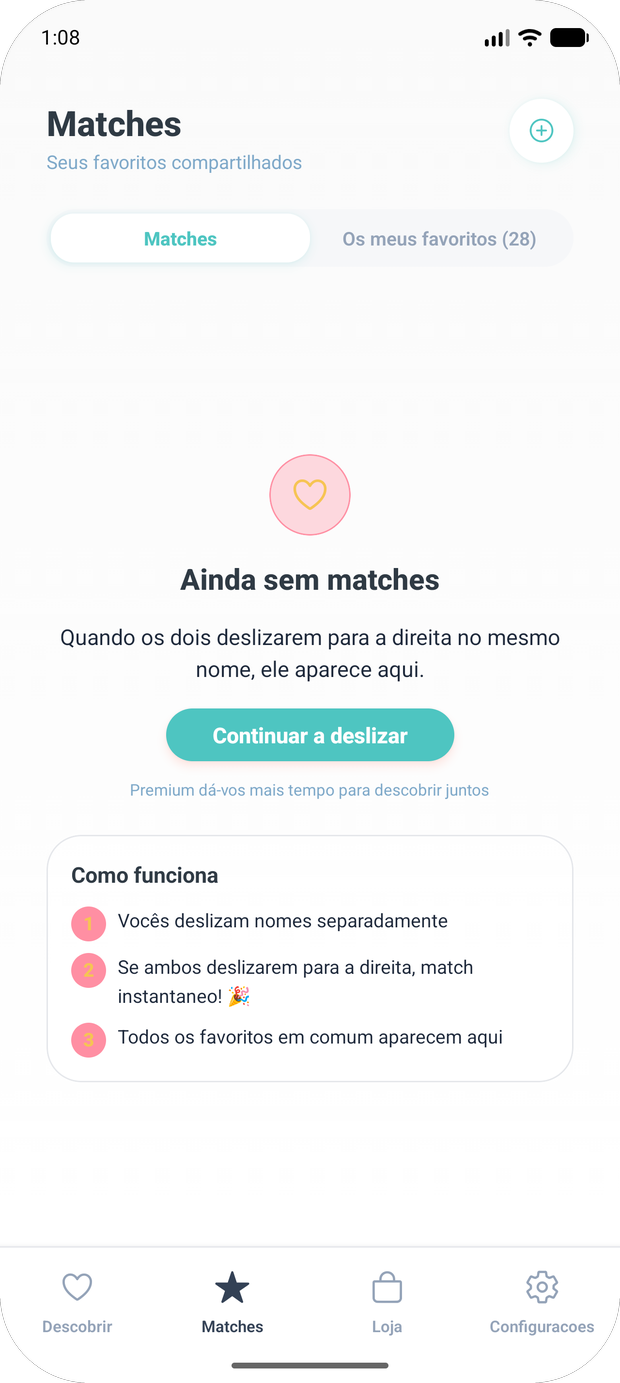
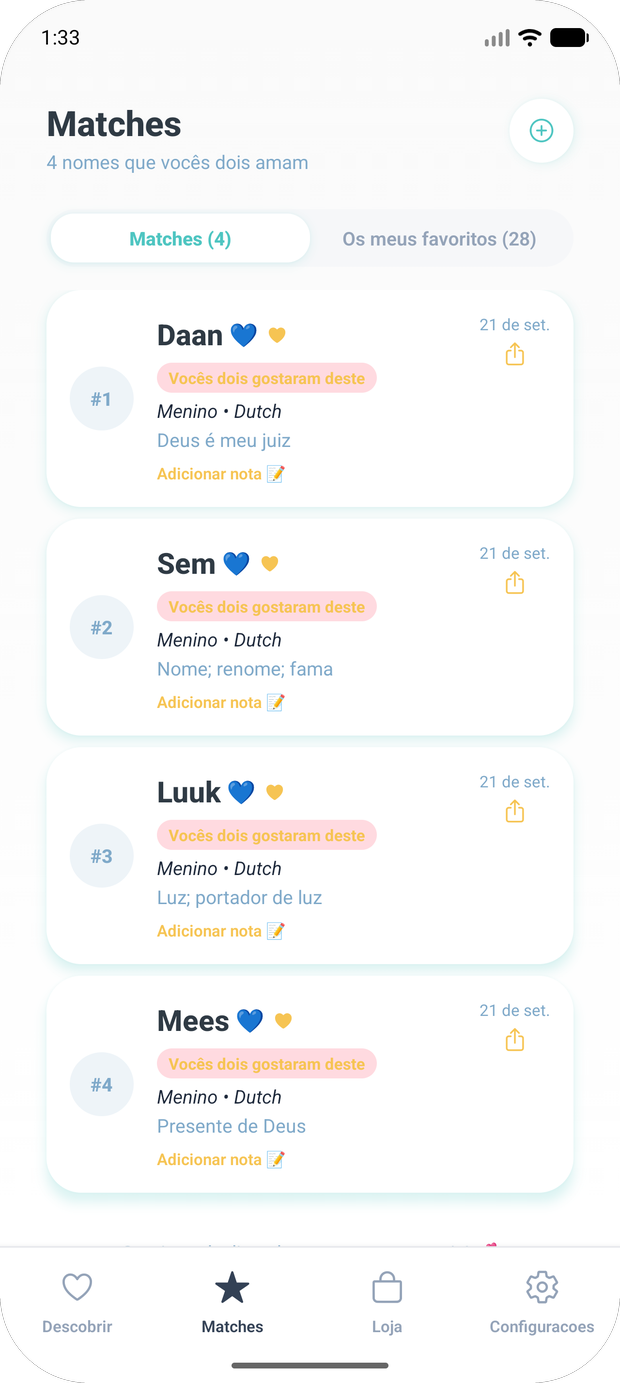
Localised screenshots with real matches, all 11 languages

diff --git a/nl/how-it-works/index.html b/nl/how-it-works/index.html
@@ -111,7 +111,7 @@
 
       <div class="steps">
         <section class="step">
-          <div class="shot"><img src="/assets/screens/nl/deck.png?v=9d10bc29" alt="Swiping names privately" loading="lazy" width="620" height="1383" /></div>
+          <div class="shot"><img src="/assets/screens/nl/deck.png?v=224c25ec" alt="Swiping names privately" loading="lazy" width="620" height="1383" /></div>
           <div><p class="n">01</p><h2>Swipe privé</h2><p>Jullie gaan allebei in je eigen tempo. Wat jij leuk vindt ziet je partner niet, dus er is geen druk om het eens te zijn en geen ongemak bij een nee.</p></div>
         </section>
         <section class="step">
@@ -119,7 +119,7 @@
           <div><p class="n">02</p><h2>Match samen</h2><p>Een naam verschijnt pas als jullie hem allebei leuk vonden. Je ziet nooit wat de ander afwees — dat houdt het gesprek prettig.</p></div>
         </section>
         <section class="step">
-          <div class="shot"><img src="/assets/screens/nl/matches.png?v=7bdf5b67" alt="Your shortlist" loading="lazy" width="620" height="1383" /></div>
+          <div class="shot"><img src="/assets/screens/nl/matches.png?v=9577fedd" alt="Your shortlist" loading="lazy" width="620" height="1383" /></div>
           <div><p class="n">03</p><h2>Bouw je lijstje</h2><p>Elke match wordt bewaard met betekenis en herkomst. Kijk terug, streep door, en beslis wanneer jullie eraan toe zijn.</p></div>
         </section>
       </div>

diff --git a/ar/how-it-works/index.html b/ar/how-it-works/index.html
@@ -111,7 +111,7 @@
 
       <div class="steps">
         <section class="step">
-          <div class="shot"><img src="/assets/screens/ar/deck.png?v=ab4ed9df" alt="Swiping names privately" loading="lazy" width="620" height="1383" /></div>
+          <div class="shot"><img src="/assets/screens/ar/deck.png?v=f390a2b0" alt="Swiping names privately" loading="lazy" width="620" height="1383" /></div>
           <div><p class="n">01</p><h2>Swipe privately</h2><p>Each of you goes at your own pace. Nothing you like is shown to your partner, so there is no pressure to agree and no awkwardness in passing.</p></div>
         </section>
         <section class="step">
@@ -119,7 +119,7 @@
           <div><p class="n">02</p><h2>Match together</h2><p>A name appears only when you have both liked it. You never see what the other rejected, which is what keeps the conversation warm.</p></div>
         </section>
         <section class="step">
-          <div class="shot"><img src="/assets/screens/ar/matches.png?v=d8d52275" alt="Your shortlist" loading="lazy" width="620" height="1383" /></div>
+          <div class="shot"><img src="/assets/screens/ar/matches.png?v=72870396" alt="Your shortlist" loading="lazy" width="620" height="1383" /></div>
           <div><p class="n">03</p><h2>Build your shortlist</h2><p>Every match is saved with its meaning and origin. Revisit it, narrow it down, and decide when you are ready.</p></div>
         </section>
       </div>

diff --git a/de/how-it-works/index.html b/de/how-it-works/index.html
@@ -111,7 +111,7 @@
 
       <div class="steps">
         <section class="step">
-          <div class="shot"><img src="/assets/screens/de/deck.png?v=c4df9872" alt="Swiping names privately" loading="lazy" width="620" height="1383" /></div>
+          <div class="shot"><img src="/assets/screens/de/deck.png?v=9ea445d7" alt="Swiping names privately" loading="lazy" width="620" height="1383" /></div>
           <div><p class="n">01</p><h2>Swipe privately</h2><p>Each of you goes at your own pace. Nothing you like is shown to your partner, so there is no pressure to agree and no awkwardness in passing.</p></div>
         </section>
         <section class="step">
@@ -119,7 +119,7 @@
           <div><p class="n">02</p><h2>Match together</h2><p>A name appears only when you have both liked it. You never see what the other rejected, which is what keeps the conversation warm.</p></div>
         </section>
         <section class="step">
-          <div class="shot"><img src="/assets/screens/de/matches.png?v=dbfcc62f" alt="Your shortlist" loading="lazy" width="620" height="1383" /></div>
+          <div class="shot"><img src="/assets/screens/de/matches.png?v=40c1443f" alt="Your shortlist" loading="lazy" width="620" height="1383" /></div>
           <div><p class="n">03</p><h2>Build your shortlist</h2><p>Every match is saved with its meaning and origin. Revisit it, narrow it down, and decide when you are ready.</p></div>
         </section>
       </div>

diff --git a/es/how-it-works/index.html b/es/how-it-works/index.html
@@ -111,7 +111,7 @@
 
       <div class="steps">
         <section class="step">
-          <div class="shot"><img src="/assets/screens/es/deck.png?v=b5c07d5d" alt="Swiping names privately" loading="lazy" width="620" height="1383" /></div>
+          <div class="shot"><img src="/assets/screens/es/deck.png?v=df5bfb8d" alt="Swiping names privately" loading="lazy" width="620" height="1383" /></div>
           <div><p class="n">01</p><h2>Swipe privately</h2><p>Each of you goes at your own pace. Nothing you like is shown to your partner, so there is no pressure to agree and no awkwardness in passing.</p></div>
         </section>
         <section class="step">
@@ -119,7 +119,7 @@
           <div><p class="n">02</p><h2>Match together</h2><p>A name appears only when you have both liked it. You never see what the other rejected, which is what keeps the conversation warm.</p></div>
         </section>
         <section class="step">
-          <div class="shot"><img src="/assets/screens/es/matches.png?v=1afce4a6" alt="Your shortlist" loading="lazy" width="620" height="1383" /></div>
+          <div class="shot"><img src="/assets/screens/es/matches.png?v=ee8ddf83" alt="Your shortlist" loading="lazy" width="620" height="1383" /></div>
           <div><p class="n">03</p><h2>Build your shortlist</h2><p>Every match is saved with its meaning and origin. Revisit it, narrow it down, and decide when you are ready.</p></div>
         </section>
       </div>

diff --git a/fr/how-it-works/index.html b/fr/how-it-works/index.html
@@ -111,7 +111,7 @@
 
       <div class="steps">
         <section class="step">
-          <div class="shot"><img src="/assets/screens/fr/deck.png?v=2219e0ce" alt="Swiping names privately" loading="lazy" width="620" height="1383" /></div>
+          <div class="shot"><img src="/assets/screens/fr/deck.png?v=b14bfbdb" alt="Swiping names privately" loading="lazy" width="620" height="1383" /></div>
           <div><p class="n">01</p><h2>Swipe privately</h2><p>Each of you goes at your own pace. Nothing you like is shown to your partner, so there is no pressure to agree and no awkwardness in passing.</p></div>
         </section>
         <section class="step">
@@ -119,7 +119,7 @@
           <div><p class="n">02</p><h2>Match together</h2><p>A name appears only when you have both liked it. You never see what the other rejected, which is what keeps the conversation warm.</p></div>
         </section>
         <section class="step">
-          <div class="shot"><img src="/assets/screens/fr/matches.png?v=c2f60616" alt="Your shortlist" loading="lazy" width="620" height="1383" /></div>
+          <div class="shot"><img src="/assets/screens/fr/matches.png?v=61072ad5" alt="Your shortlist" loading="lazy" width="620" height="1383" /></div>
           <div><p class="n">03</p><h2>Build your shortlist</h2><p>Every match is saved with its meaning and origin. Revisit it, narrow it down, and decide when you are ready.</p></div>
         </section>
       </div>

diff --git a/it/how-it-works/index.html b/it/how-it-works/index.html
@@ -111,7 +111,7 @@
 
       <div class="steps">
         <section class="step">
-          <div class="shot"><img src="/assets/screens/it/deck.png?v=c5807134" alt="Swiping names privately" loading="lazy" width="620" height="1383" /></div>
+          <div class="shot"><img src="/assets/screens/it/deck.png?v=82fc6c05" alt="Swiping names privately" loading="lazy" width="620" height="1383" /></div>
           <div><p class="n">01</p><h2>Swipe privately</h2><p>Each of you goes at your own pace. Nothing you like is shown to your partner, so there is no pressure to agree and no awkwardness in passing.</p></div>
         </section>
         <section class="step">
@@ -119,7 +119,7 @@
           <div><p class="n">02</p><h2>Match together</h2><p>A name appears only when you have both liked it. You never see what the other rejected, which is what keeps the conversation warm.</p></div>
         </section>
         <section class="step">
-          <div class="shot"><img src="/assets/screens/it/matches.png?v=7d23c845" alt="Your shortlist" loading="lazy" width="620" height="1383" /></div>
+          <div class="shot"><img src="/assets/screens/it/matches.png?v=950401d3" alt="Your shortlist" loading="lazy" width="620" height="1383" /></div>
           <div><p class="n">03</p><h2>Build your shortlist</h2><p>Every match is saved with its meaning and origin. Revisit it, narrow it down, and decide when you are ready.</p></div>
         </section>
       </div>

diff --git a/ja/how-it-works/index.html b/ja/how-it-works/index.html
@@ -111,7 +111,7 @@
 
       <div class="steps">
         <section class="step">
-          <div class="shot"><img src="/assets/screens/ja/deck.png?v=b75436e9" alt="Swiping names privately" loading="lazy" width="620" height="1383" /></div>
+          <div class="shot"><img src="/assets/screens/ja/deck.png?v=9ec072c9" alt="Swiping names privately" loading="lazy" width="620" height="1383" /></div>
           <div><p class="n">01</p><h2>Swipe privately</h2><p>Each of you goes at your own pace. Nothing you like is shown to your partner, so there is no pressure to agree and no awkwardness in passing.</p></div>
         </section>
         <section class="step">
@@ -119,7 +119,7 @@
           <div><p class="n">02</p><h2>Match together</h2><p>A name appears only when you have both liked it. You never see what the other rejected, which is what keeps the conversation warm.</p></div>
         </section>
         <section class="step">
-          <div class="shot"><img src="/assets/screens/ja/matches.png?v=83c472ce" alt="Your shortlist" loading="lazy" width="620" height="1383" /></div>
+          <div class="shot"><img src="/assets/screens/ja/matches.png?v=1cc3ec86" alt="Your shortlist" loading="lazy" width="620" height="1383" /></div>
           <div><p class="n">03</p><h2>Build your shortlist</h2><p>Every match is saved with its meaning and origin. Revisit it, narrow it down, and decide when you are ready.</p></div>
         </section>
       </div>

diff --git a/ko/how-it-works/index.html b/ko/how-it-works/index.html
@@ -111,7 +111,7 @@
 
       <div class="steps">
         <section class="step">
-          <div class="shot"><img src="/assets/screens/ko/deck.png?v=9f77b3a2" alt="Swiping names privately" loading="lazy" width="620" height="1383" /></div>
+          <div class="shot"><img src="/assets/screens/ko/deck.png?v=fca58132" alt="Swiping names privately" loading="lazy" width="620" height="1383" /></div>
           <div><p class="n">01</p><h2>Swipe privately</h2><p>Each of you goes at your own pace. Nothing you like is shown to your partner, so there is no pressure to agree and no awkwardness in passing.</p></div>
         </section>
         <section class="step">
@@ -119,7 +119,7 @@
           <div><p class="n">02</p><h2>Match together</h2><p>A name appears only when you have both liked it. You never see what the other rejected, which is what keeps the conversation warm.</p></div>
         </section>
         <section class="step">
-          <div class="shot"><img src="/assets/screens/ko/matches.png?v=478adc83" alt="Your shortlist" loading="lazy" width="620" height="1383" /></div>
+          <div class="shot"><img src="/assets/screens/ko/matches.png?v=3aa2df6d" alt="Your shortlist" loading="lazy" width="620" height="1383" /></div>
           <div><p class="n">03</p><h2>Build your shortlist</h2><p>Every match is saved with its meaning and origin. Revisit it, narrow it down, and decide when you are ready.</p></div>
         </section>
       </div>

diff --git a/pt/how-it-works/index.html b/pt/how-it-works/index.html
@@ -111,7 +111,7 @@
 
       <div class="steps">
         <section class="step">
-          <div class="shot"><img src="/assets/screens/pt/deck.png?v=9c1e6ea4" alt="Swiping names privately" loading="lazy" width="620" height="1383" /></div>
+          <div class="shot"><img src="/assets/screens/pt/deck.png?v=b4147a55" alt="Swiping names privately" loading="lazy" width="620" height="1383" /></div>
           <div><p class="n">01</p><h2>Swipe privately</h2><p>Each of you goes at your own pace. Nothing you like is shown to your partner, so there is no pressure to agree and no awkwardness in passing.</p></div>
         </section>
         <section class="step">
@@ -119,7 +119,7 @@
           <div><p class="n">02</p><h2>Match together</h2><p>A name appears only when you have both liked it. You never see what the other rejected, which is what keeps the conversation warm.</p></div>
         </section>
         <section class="step">
-          <div class="shot"><img src="/assets/screens/pt/matches.png?v=603e7e6a" alt="Your shortlist" loading="lazy" width="620" height="1383" /></div>
+          <div class="shot"><img src="/assets/screens/pt/matches.png?v=1be90659" alt="Your shortlist" loading="lazy" width="620" height="1383" /></div>
           <div><p class="n">03</p><h2>Build your shortlist</h2><p>Every match is saved with its meaning and origin. Revisit it, narrow it down, and decide when you are ready.</p></div>
         </section>
       </div>

diff --git a/zh/how-it-works/index.html b/zh/how-it-works/index.html
@@ -111,7 +111,7 @@
 
       <div class="steps">
         <section class="step">
-          <div class="shot"><img src="/assets/screens/zh/deck.png?v=e69d24d4" alt="Swiping names privately" loading="lazy" width="620" height="1383" /></div>
+          <div class="shot"><img src="/assets/screens/zh/deck.png?v=c3501dae" alt="Swiping names privately" loading="lazy" width="620" height="1383" /></div>
           <div><p class="n">01</p><h2>Swipe privately</h2><p>Each of you goes at your own pace. Nothing you like is shown to your partner, so there is no pressure to agree and no awkwardness in passing.</p></div>
         </section>
         <section class="step">
@@ -119,7 +119,7 @@
           <div><p class="n">02</p><h2>Match together</h2><p>A name appears only when you have both liked it. You never see what the other rejected, which is what keeps the conversation warm.</p></div>
         </section>
         <section class="step">
-          <div class="shot"><img src="/assets/screens/zh/matches.png?v=fc89b962" alt="Your shortlist" loading="lazy" width="620" height="1383" /></div>
+          <div class="shot"><img src="/assets/screens/zh/matches.png?v=4e50c968" alt="Your shortlist" loading="lazy" width="620" height="1383" /></div>
           <div><p class="n">03</p><h2>Build your shortlist</h2><p>Every match is saved with its meaning and origin. Revisit it, narrow it down, and decide when you are ready.</p></div>
         </section>
       </div>
